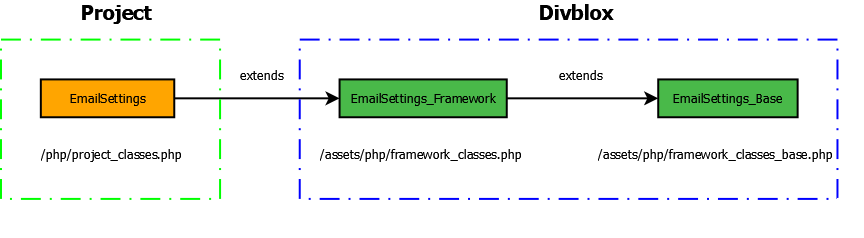
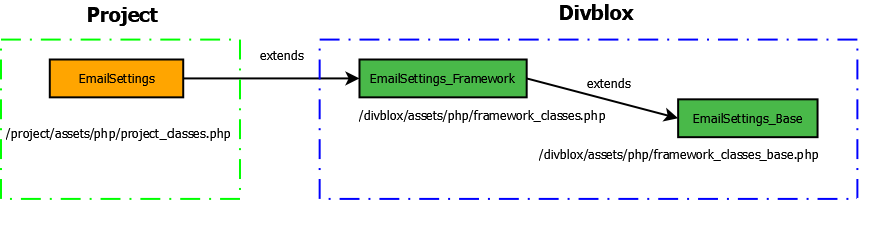
reworking email section

diff --git a/examples.md b/examples.md
@@ -816,34 +816,25 @@ subComponentLoadedCallBack(component) {
 
 ## Sending an email
 
-Divblox uses PHPMailer to send out emails. Some configurations are needed before we even get to using Divblox. Make sure that your chose email address allows less secure apps to access it. For Gmail accounts this is done through your Google account settings. `Security -> Less Secure App Access : True`.
+Divblox implements PHPMailer (https://github.com/PHPMailer/PHPMailer) to send emails. Divblox will automatically log all email sending activity in a table called `EmailMessage`. Therefore, it is important to ensure that your database is correctly set up and you have done a synchronization on the data model before continuing.
 
-It is also necessary that Divblox is correctly configured and able to syncronize it's databases, as any email sent will first attempt to be stored in a the `EmailMessage` table, before being sent.
-
-1. Fill in the following class with the necessary parameters in the file project_classes.php.
+Before sending emails you need to configure your email settings within Divblox. Fill in the necessary parameters in the `EmailSettings` class located in the file `/project/assets/php/project_classes.php`.
 
 ```php
-
 abstract class Email_Settings extends EmailSettings_Framework {
-
+  // Example using Gmail
   public static $SMTPSERVER = 'smtp.gmail.com';
-
   public static $SMTPUsername = 'user.divblox@gmail.com';
-
   public static $SMTPPassword = 'secret_password';
-
   public static $SMTPPort = 587;
-
-  public static $SMTPDebugMode = SMTP::DEBUG_SERVER;
-
-  public static $SMTPSecure = PHPMailer::ENCRYPTION_STARTTLS;
-
+  public static $SMTPDebugMode = \PHPMailer\PHPMailer\SMTP::DEBUG_SERVER; // To disable verbose debug output, use DEBUG_OFF
+  public static $SMTPSecure = \PHPMailer\PHPMailer\PHPMailer::ENCRYPTION_STARTTLS; //Enable TLS Encryption; also accepts 'ENCRYPTION_STARTSMTPS'
   public static $SMTPForceSecurityProtocol = true;
-
   public static $SMTPAUtoTLS = false;
-
 }
 ```
+
+> We are overriding the default parameters set in the `EmailSettings_Base` class. This is part of the Divblox best practices, as your changes to Divblox base files may be deleted as Divblox replaces the files with updated ones.
 
 The chain of inheritance is as follows:
 
@@ -851,28 +842,31 @@ The chain of inheritance is as follows:
   <img  src=_email-media/EmailClassExtensions.png>
 </p>
 
-We are overriding the default parameters set in the `EmailSettings_Base` class. This is part of the Divblox best practices, as your changes to Divblox base files can be deleted as Divblox replaces the files with updated ones.
+For some email servers such as Gmail, security protocols are expected. For the above Gmail example, TLS is mandatory and hence we can either set `$SMTPAutoTLS = true;` which will always set the security protocol to TLS, or we can define which protocol to use,
+`$SMTPSecure = \PHPMailer\PHPMailer\PHPMailer::ENCRYPTION_STARTTLS;` and then force the protocol to match the previously defined one, using `$SMTP ForceSecurityProtocol = true;`
 
-The above is an example using Gmail. Note that if you aren't using Gmail, your SMTP Server as well as port will be different.
+We are now ready to use the `EmailManager` class to prepare and send emails.
 
-The SMTP username and password is the username and password linked with the sending email address you are using.
-
-The SMTP Debug Mode should be set to `DEBUG_OFF` unless you want output to be displayed to inspect your program, in which case you will use `SMTP::DEBUG_SERVER`.
-
-For some email servers like Gmail, security protocols are expected. For our Gmail example, TLS is mandatory and hence we can either set `$SMTPAutoTLS = true;` which will always set the security protocol to TLS, or we can define which protocol we would want to use, `$SMTPSecure = PHPMailer::ENCRYPTION_STARTTLS;` and then force the protocol to match the previously defined one, using `$SMTP ForceSecurityProtocol = true;`.
-
-2. Now we want to write a php script that will actually send the email.
+1. Prepare your email with `EmailManager::prepareEmail("Test Subject", "A test message");`
+2. Add one or multiple recipient addresses with `EmailManager::addRecipientAddress("recipient.address@gmail.com", "Recipient Name");`
+3. Optionally, add CC addresses with `EmailManager::addCCAddress("recipient.address@gmail.com");`
+4. Optionally, add BCC addresses with `EmailManager::addBCCAddress("recipient.address@gmail.com");`
+5. Optionally, add attachments with `EmailManager::addAttachment("file_path_from_root", "file_name_to_display");`
+6. Send your email with `EmailManager::sendEmail($ErrorInfo);`. `$ErrorInfo` is a variable that is passed by reference and will result in an array that is populated with any additional information regarding the success or failure of the function.
 
 ```php
-require("divblox/divblox.php");
-
+//Step 1: Prepare the email
 EmailManager::prepareEmail("Test Subject", "A test message");
+//Step 2: Add recipient/s
 EmailManager::addRecipientAddress("recipient.address@gmail.com", "Recipient Name");
-
+//Step 3-5: (Optional) Add CC/BCC addresses and/or attachments
+//EmailManager::addCCAddress("recipient.address@gmail.com");
+//EmailManager::addBCCAddress("recipient.address@gmail.com");
+//EmailManager::addAttachment("file_path_from_root", "file_name_to_display");
+//Step 6: Send the email
 if (EmailManager::sendEmail($ErrorInfo)) {
-  echo "Email sent! <br> " . json_encode($ErrorInfo);
+    //This means the email was successfully sent, additional info can be found in the array $ErrorInfo
 } else {
-  echo "Email NOT sent: <br>" . json_encode($ErrorInfo);
+    //This means the email was NOT successfully sent, additional info can be found in the array $ErrorInfo
 }
-
 ```
